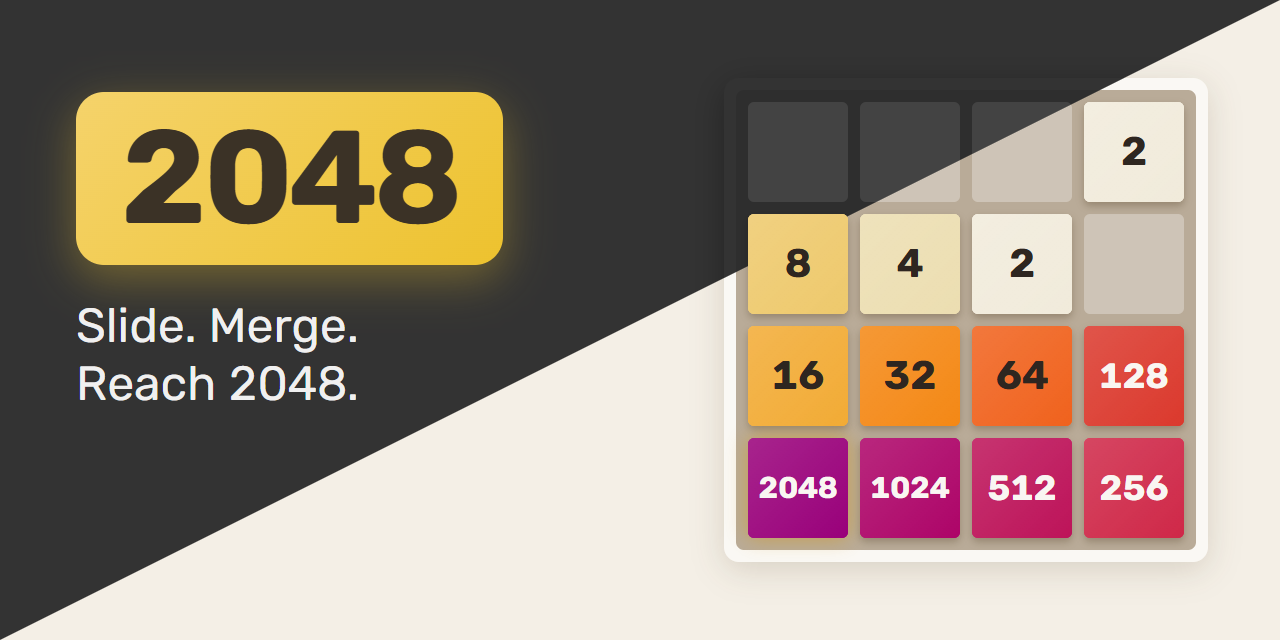
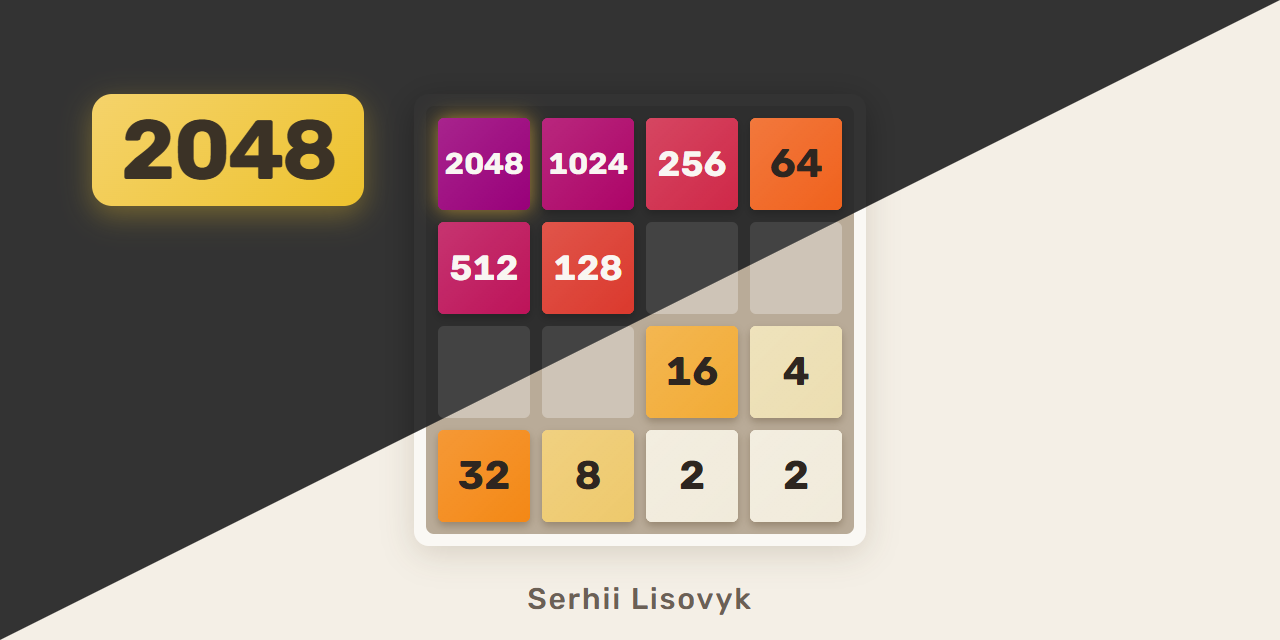
feat: recompose the link preview around the theme split
The tagline is gone and the author's name sits at the bottom, on the light
triangle. The board moves to the middle of the image so the corner-to-corner
diagonal crosses it through its centre: about half of the panel and the
empty cells are the dark theme and half the light one, with the four empty
cells that the line cuts showing both. The logo shrinks to sit beside the
board on the dark side. Both sizes (1200x630, 1280x640) use the same layout;
og:image:alt describes the new picture.

diff --git a/src/index.html b/src/index.html
@@ -36,7 +36,7 @@
     <meta property="og:image:height" content="630" />
     <meta
       property="og:image:alt"
-      content="The gold 2048 logo and the tagline Slide, merge, reach 2048 next to a board of tiles from 2 to 2048, on a background split diagonally into the dark and the light theme."
+      content="The gold 2048 logo next to a board of tiles from 2 to 2048, on a background split diagonally into the dark and the light theme, with the board split by the same line. Serhii Lisovyk at the bottom."
     />
     <meta name="twitter:card" content="summary_large_image" />
     <link rel="icon" href="favicon.svg" type="image/svg+xml" />
